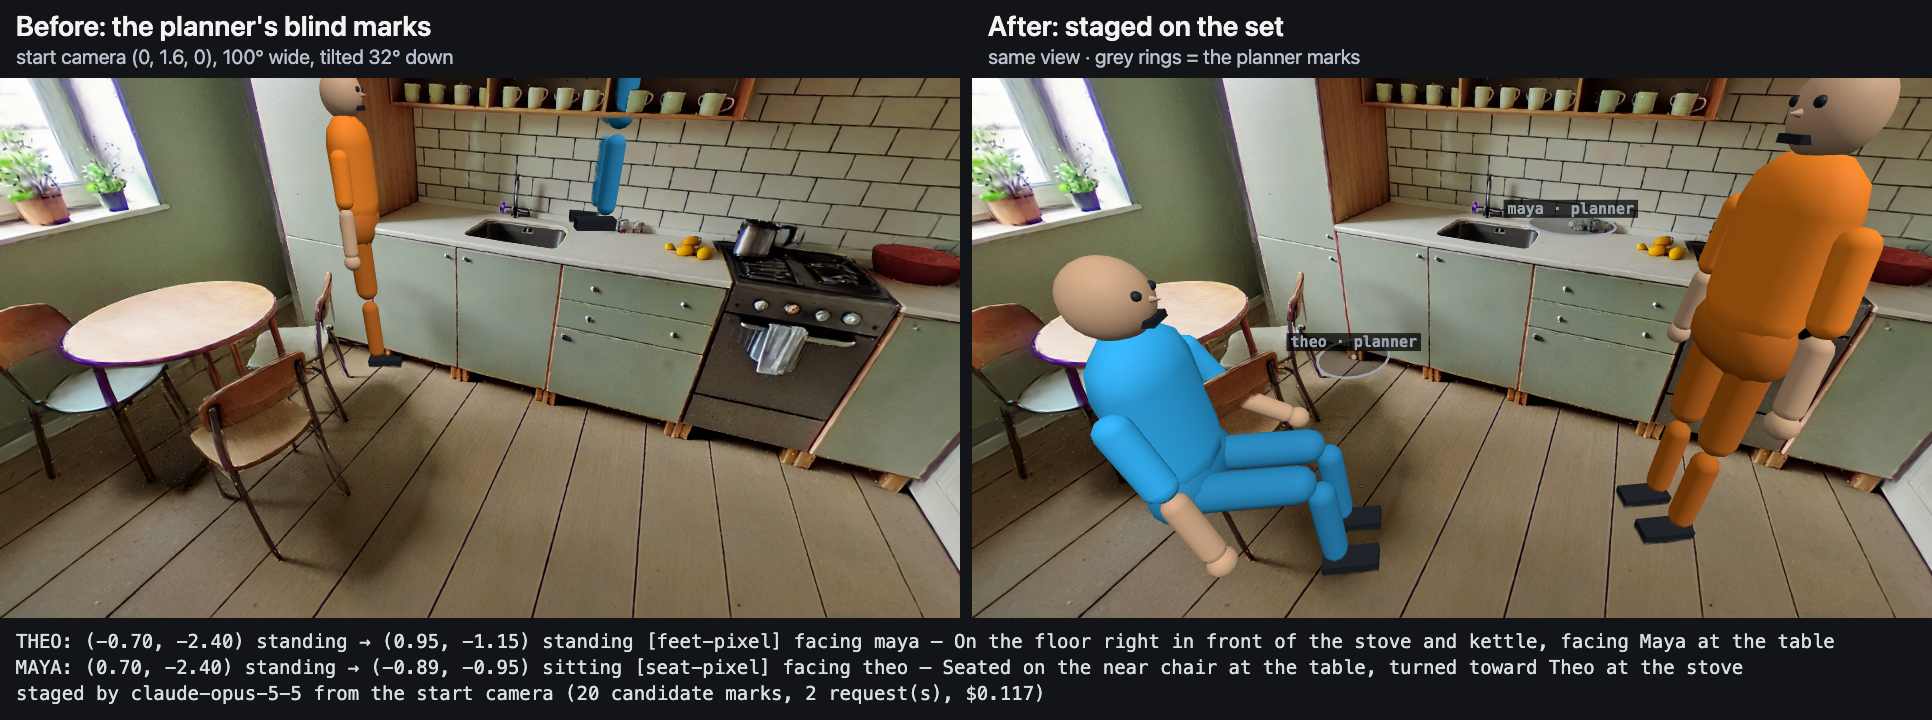
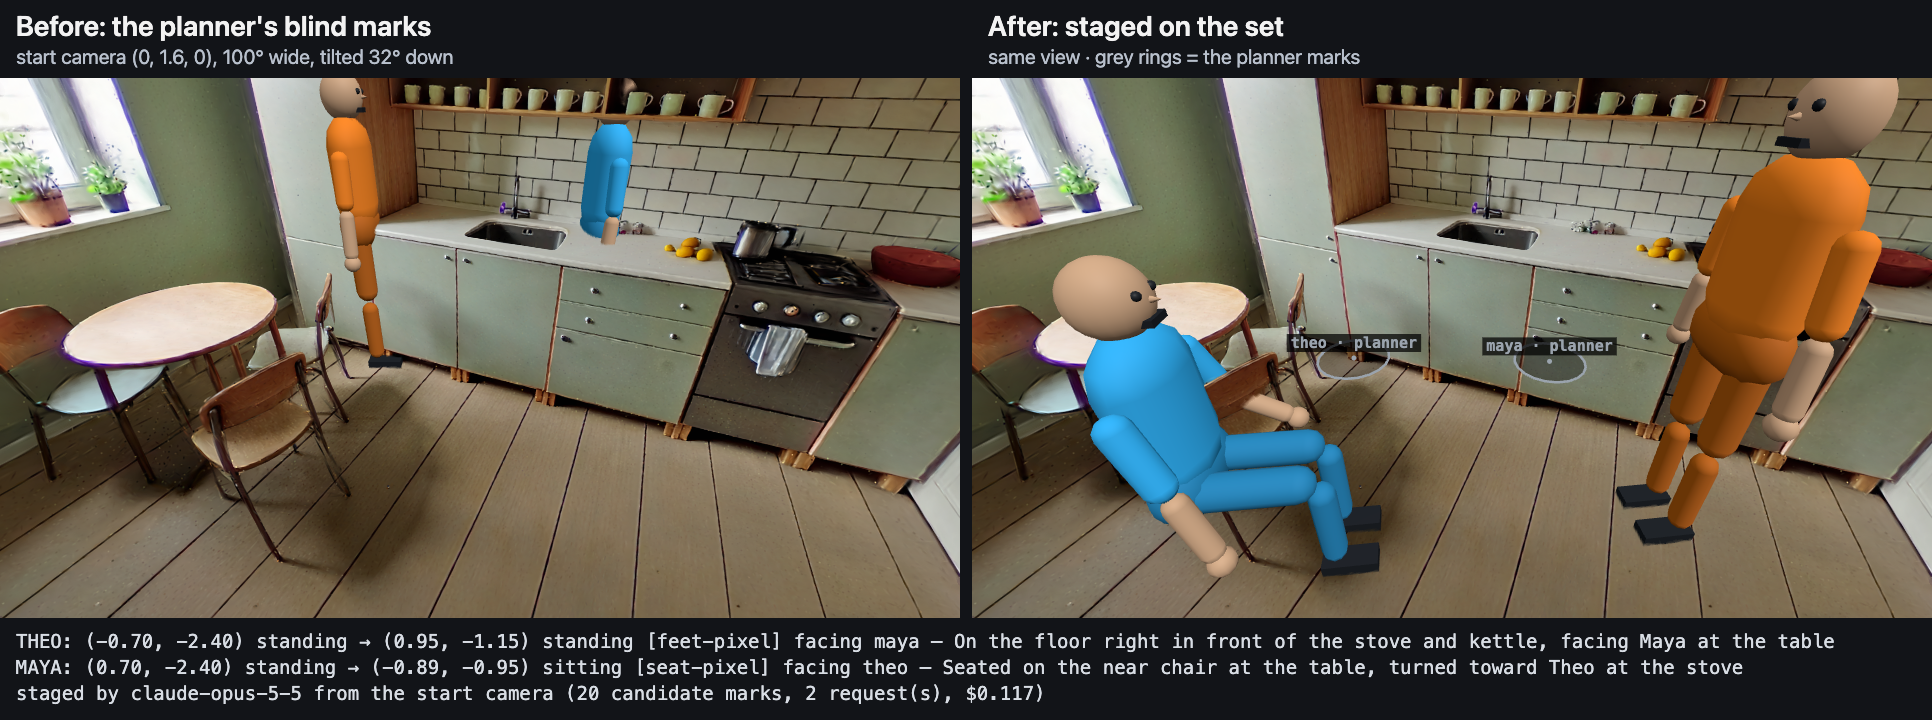
staging × ground field: after staging, the floor offset and the ground field are measured at the staged marks (then the planner's, which keep the floor defined when a staged mark is too far out to measure, e.g. the rooftop parapet) via calibrate.ts's own path; calibrateStep measures there too while 

diff --git a/server/pipeline/project.ts b/server/pipeline/project.ts
@@ -73,6 +73,8 @@ import { slugify } from './geometry.ts';
 import { ASSET_FILE, generateWorld, RECEIPT_FILE, type GenerateWorldOptions } from './marble.ts';
 import { parseScreenplay } from './screenplay.ts';
 import {
+  groundMarks,
+  measureGroundAtMarks,
   readStaging,
   stageScene,
   stagedBlocking,
@@ -796,7 +798,7 @@ export class ProjectStore {
   private async groundStep(scene: ScenePlan, outDir: string, asset: WorldAsset, log: (m: string) => void): Promise<WorldAsset> {
     try {
       if (await storedGroundField(outDir, asset)) return asset;
-      const marks = scene.blocking.map((b) => [b.position[0], b.position[2]] as const);
+      const marks = await this.markXZ(scene, outDir, asset);
       // the mock floor is a sparse 0.14 m lattice: 2 splats make a layer there
       const next = await writeGroundField(outDir, asset, { marks, log, minLayer: asset.provider === 'mock' ? 2 : undefined });
       await writeJsonAtomic(join(outDir, ASSET_FILE), next);
@@ -820,7 +822,7 @@ export class ProjectStore {
     log: (m: string) => void,
   ): Promise<{ asset: WorldAsset; note: string }> {
     if (!this.calibrate || st.mock || asset.provider !== 'marble') return { asset, note: '' };
-    const marks = scene.blocking.map((b) => [b.position[0], b.position[2]] as const);
+    const marks = await this.markXZ(scene, outDir, asset);
     if (asset.scaleCalibration) {
       // carried by a library copy: re-decided from its stored report (no Claude call), with the
       // visible ground measured where this scene's actors stand (local, ~2 s)
@@ -867,6 +869,25 @@ export class ProjectStore {
   }
 
   /**
+   * Where the scene's actors stand (xz, scene metres) for the floor and ground measurements: the
+   * staged marks when scene-<n>/staging.json is current for this world, then the planner's
+   * (staging.ts groundMarks), so a re-run measures where the previous run staged them instead of
+   * flipping back and forth.
+   */
+  private async markXZ(scene: ScenePlan, worldDir: string, asset: WorldAsset): Promise<(readonly [number, number])[]> {
+    const plan = await this.plan(this.projectOf(worldDir)).catch(() => undefined);
+    const staged = plan
+      ? stagedBlocking(await readStaging(join(worldDir, '..')), { asset, scene, characters: plan.characters })
+      : undefined;
+    return groundMarks(staged, scene.blocking);
+  }
+
+  /** The project id a scene world dir belongs to (<dataDir>/<id>/scene-<n>/world). */
+  private projectOf(worldDir: string): string {
+    return relative(this.dataDir, worldDir).split(sep)[0] ?? '';
+  }
+
+  /**
    * Live Marble worlds with a collider and the Anthropic key: stages the scene's actors on the set
    * once (staging.ts) into scene-<n>/staging.json, reused while its inputs are unchanged (a report
    * that kept the planner's blocking is reused too, so a hopeless set is not paid for twice).
@@ -899,6 +920,12 @@ export class ProjectStore {
       });
       const report = await this.deps.stageScene({ worldDir, asset, scene, characters: plan.characters, log });
       await writeStaging(sceneDir, report);
+      // the floor offset and the ground field follow the actors to their new marks
+      const staged = stagedBlocking(report, { asset, scene, characters: plan.characters });
+      if (staged)
+        await measureGroundAtMarks(worldDir, asset, groundMarks(staged, scene.blocking), { log }).catch((e) =>
+          log(`ground not re-measured at the staged marks: ${errMsg(e)}`),
+        );
       return summary(report);
     } catch (e) {
       log(`staging skipped: ${errMsg(e)}; the planner's blocking is kept`);

diff --git a/server/pipeline/staging.ts b/server/pipeline/staging.ts
@@ -32,12 +32,13 @@ import { SceneManifest, WorldAsset, type Blocking, type Character, type ScenePla
 import type { ScaleFigure, ScaleMark } from '../../web/src/viewer/dev/scale-shot.ts';
 import { TriGrid } from '../../web/src/viewer/placement.ts';
 import { applyWorldTransform, calibrationFactor, floorOffset, worldTransform } from '../../web/src/viewer/transform.ts';
-import { colliderMetric, readWorldAsset } from './calibrate.ts';
-import { measureGround } from './calibrate-ground.ts';
+import { colliderMetric, previousCalibration, readWorldAsset, redecide, withGround, writeCalibration } from './calibrate.ts';
+import { measureGround, writeGroundField } from './calibrate-ground.ts';
 import { RayGrid } from './calibrate-geometry.ts';
 import { openWorldRenderer, type WorldRenderer } from './calibrate-render.ts';
 import { costOf, floorAt, IMAGE, projectPoint } from './calibrate-vision.ts';
 import { exists, readJson, writeJsonAtomic } from './fsutil.ts';
+import { ASSET_FILE } from './marble.ts';
 import { decodeSpz } from './spz.ts';
 import { round3 } from './geometry.ts';
 import {
@@ -423,6 +424,37 @@ export function stagedBlocking(
   const k = factor / (report.factor > 0 ? report.factor : 1);
   if (Math.abs(k - 1) < 1e-9) return report.blocking;
   return report.blocking.map((b) => ({ ...b, position: [round3(b.position[0] * k), b.position[1], round3(b.position[2] * k)] as Vec3 }));
+}
+
+/**
+ * Where the floor and the ground field are measured for a scene: the staged marks, then the
+ * planner's. The staged ones decide wherever their ground is measurable; the planner's (near the
+ * camera) keep the floor offset defined when a staged mark is too far out to measure (the rooftop
+ * parapet's splat columns are too sparse), so the world's reference does not vanish.
+ */
+export function groundMarks(staged: readonly Blocking[] | undefined, planner: readonly Blocking[]): (readonly [number, number])[] {
+  return [...(staged ?? []), ...planner].map((b) => [b.position[0], b.position[2]] as const);
+}
+
+/**
+ * After staging: the floor offset and the ground field measured where the actors now stand, by the
+ * calibration's own path (calibrate.ts withGround + writeCalibration, which re-measures the field
+ * with its grid grown to the marks; without a scale report, only the field). Staged marks can lie
+ * outside the default field (x ±8, z -12..3 m at Marble's scale; the rooftop's parapet at ×0.778),
+ * and floorOffsetMeters is by definition the ground at the marks. `manifest` also patches
+ * ../manifest.json's world. Returns the new world-asset.json.
+ */
+export async function measureGroundAtMarks(
+  worldDir: string,
+  asset: WorldAsset,
+  marks: readonly (readonly [number, number])[],
+  o: { log?: (m: string) => void; manifest?: boolean } = {},
+): Promise<WorldAsset> {
+  const prev = asset.provider === 'marble' ? await previousCalibration(worldDir, asset.worldId) : null;
+  if (prev) return writeCalibration(worldDir, await withGround(redecide(prev), worldDir, marks), { log: o.log, marks, manifest: o.manifest });
+  const next = await writeGroundField(worldDir, asset, { marks, log: o.log });
+  await writeJsonAtomic(join(worldDir, ASSET_FILE), next);
+  return next;
 }
 
 /** Rewrites ../manifest.json's plan.blocking from a report (CLI --write on an existing project). */

diff --git a/server/pipeline/cli.ts b/server/pipeline/cli.ts
@@ -49,8 +49,11 @@ import { ScreenplayPlan } from '../../shared/schema.ts';
 import {
   applyStagingToManifest,
   formatStaging,
+  groundMarks,
+  measureGroundAtMarks,
   readStaging,
   renderStagingBeforeAfter,
+  stagedBlocking,
   stageScene,
   stagingCurrent,
   writeStaging,
@@ -231,6 +234,11 @@ async function main() {
         await writeStaging(sceneDir, report);
         const m = await applyStagingToManifest(sceneDir, report, log);
         log(`wrote ${sceneDir}/staging.json${m ? ' and plan.blocking in manifest.json' : ' (manifest.json not changed: missing, another world, or nothing staged)'}`);
+        const staged = stagedBlocking(report, { asset, scene, characters: plan.characters });
+        if (staged) {
+          const next = await measureGroundAtMarks(worldDir, asset, groundMarks(staged, scene.blocking), { log, manifest: true });
+          log(`floor offset ${next.floorOffsetMeters ?? '—'} and the ground field re-measured at the staged marks (world-asset.json, ground.json, manifest.json)`);
+        }
       }
       const ba = str(flags['before-after']);
       if (ba) {
